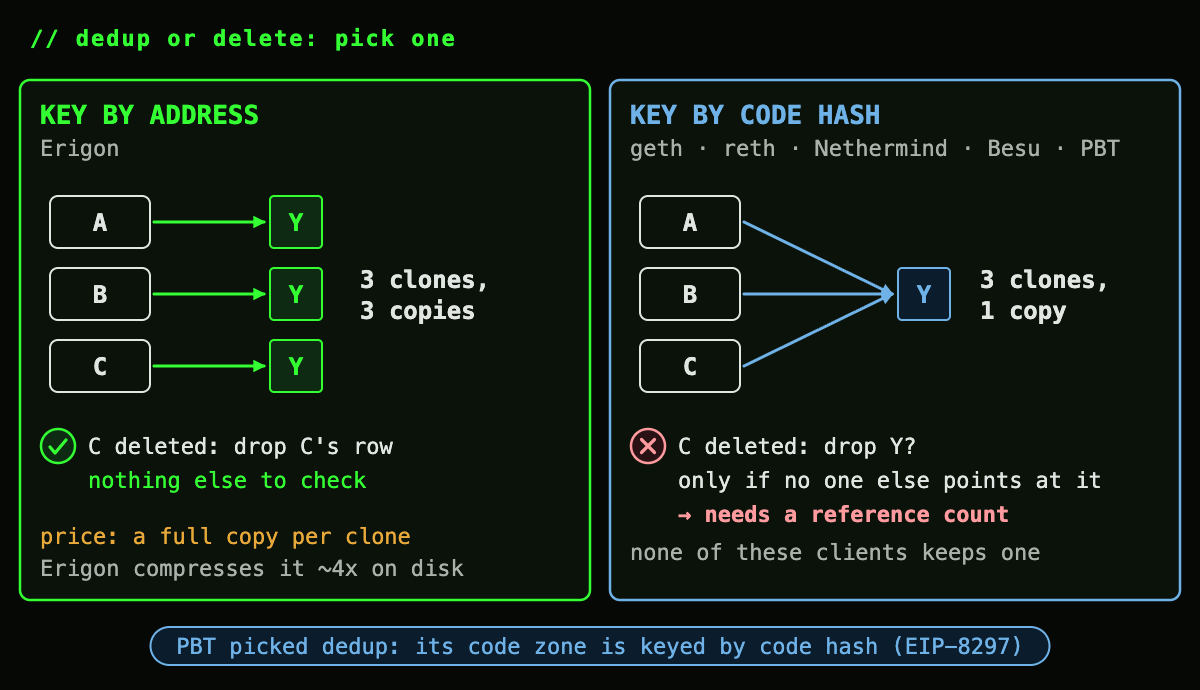
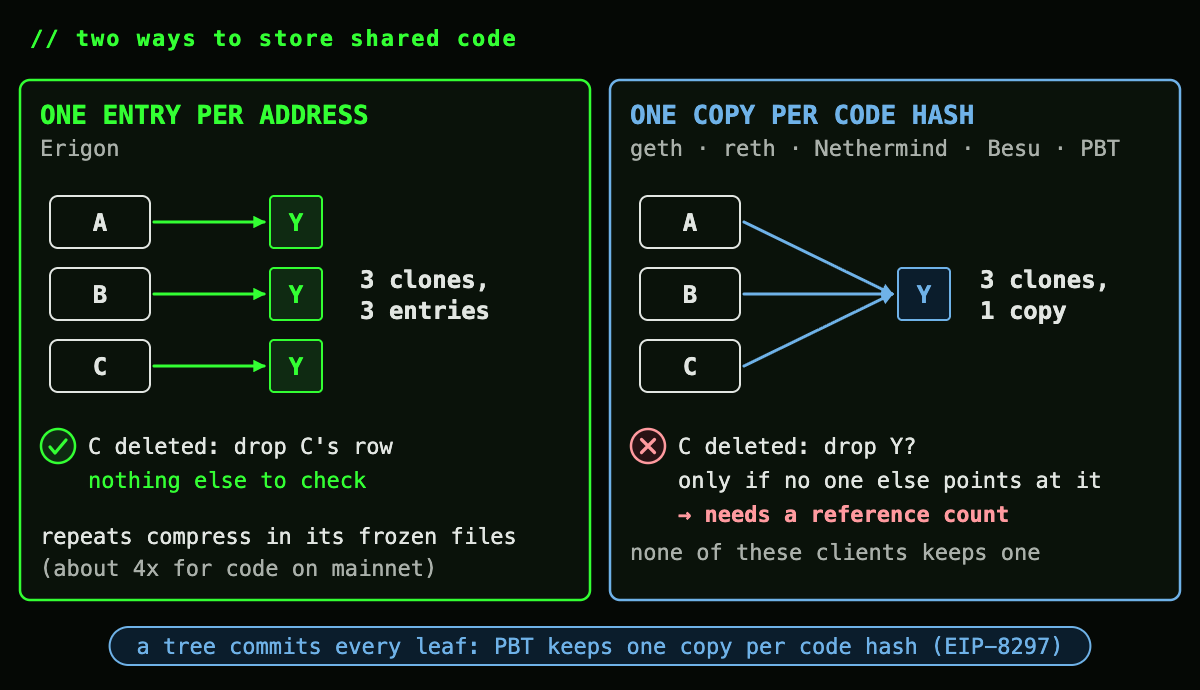
setcodefrom-dangling-code: Erigon compresses shared code; F4 reframed
Erigon keys code by address with no refcount, but its frozen files compress repeats against a shared dictionary (about 4x for code on mainnet). F4 and its section now show two ways to store shared code, and why a tree that commits every leaf keeps one copy per code hash.

diff --git a/setcodefrom-dangling-code/index.html b/setcodefrom-dangling-code/index.html
@@ -101,10 +101,10 @@
 <figure><img src="figures/f3-client-matrix.svg" alt="Figure 3: a grid of five clients against four events. geth, reth, Nethermind and Besu key code by hash and keep it after reorgs and pre-Cancun self-destructs, and Nethermind also keeps code from reverted frames and same-transaction self-destructs. Erigon keys code by address and never leaves any behind." loading="lazy"><figcaption><span class="fnum">Figure 3.</span> a grid of five clients against four events. geth, reth, Nethermind and Besu key code by hash and keep it after reorgs and pre-Cancun self-destructs, and Nethermind also keeps code from reverted frames and same-transaction self-destructs. Erigon keys code by address and never leaves any behind.</figcaption></figure>
 <p>Two things stand out. Reverts aren't the main source: only Nethermind persists code from a reverted frame, the others undo it before anything is written. And only one client doesn't have the problem at all.</p>
 <p>Since Cancun, only reorgs and Nethermind's handling of reverts still leave code behind. Fix those two and nothing would anymore, until SETCODEFROM.</p>
-<h2 id="dedup-or-delete-pick-one"><span class="hsig">&gt;</span> Dedup or delete: pick one</h2>
-<figure><img src="figures/f4-dedup-or-delete.svg" alt="Figure 4: keyed by address, three clones store three copies and deleting one is free. Keyed by code hash, three clones share one copy and deleting it needs to know nobody else points at it, which takes a reference count. PBT keys its code zone by code hash." loading="lazy"><figcaption><span class="fnum">Figure 4.</span> keyed by address, three clones store three copies and deleting one is free. Keyed by code hash, three clones share one copy and deleting it needs to know nobody else points at it, which takes a reference count. PBT keys its code zone by code hash.</figcaption></figure>
-<p>Erigon stores code per address. When the account goes, its code goes with it. The price is that a thousand clones are a thousand copies, though Erigon wins most of that back by compressing its snapshot files (its own config notes a 4x ratio for code on mainnet). geth, reth, Nethermind and Besu store code by hash: a thousand clones share one copy, and deleting it means knowing nobody else points at it. That's a reference count, and none of them keeps one. Besu has been on both sides: older Besu databases keyed code by account, new ones key it by hash.</p>
-<p>PBT picks dedup on purpose. Its code zone is content-addressed, keyed by code hash, so it inherits the same question.</p>
+<h2 id="two-ways-to-store-shared-code"><span class="hsig">&gt;</span> Two ways to store shared code</h2>
+<figure><img src="figures/f4-dedup-or-delete.svg" alt="Figure 4: keyed by address, three clones are three entries, deleting one is free, and Erigon compresses the repeats on disk. Keyed by code hash, three clones share one copy, and deleting it needs to know nobody else points at it, which takes a reference count. A tree commits every leaf, so PBT keeps one copy per code hash." loading="lazy"><figcaption><span class="fnum">Figure 4.</span> keyed by address, three clones are three entries, deleting one is free, and Erigon compresses the repeats on disk. Keyed by code hash, three clones share one copy, and deleting it needs to know nobody else points at it, which takes a reference count. A tree commits every leaf, so PBT keeps one copy per code hash.</figcaption></figure>
+<p>Erigon stores code per address, with no reference count. When the account goes, its code goes with it, and a thousand clones are a thousand entries. It doesn't pay for them in full, though: its frozen files compress every value against a shared dictionary, so repeated code shrinks to a fraction of a copy (its config notes a 4x ratio for code on mainnet). geth, reth, Nethermind and Besu store code by hash instead: a thousand clones share one copy, and deleting it means knowing nobody else points at it. That's a reference count, and none of them keeps one. Besu has been on both sides: older Besu databases keyed code by account, new ones key it by hash.</p>
+<p>Compression can't do that job inside a tree, where every copy would be another committed leaf. So PBT keeps one copy per code hash, and inherits the same question.</p>
 <h2 id="how-big-is-it-today-small"><span class="hsig">&gt;</span> How big is it today? Small</h2>
 <figure><img src="figures/f5-how-big-today.svg" alt="Figure 5: the 27,869 unreferenced codes are at most 0.68 GB, and 1.83 GB even at the new 64 KiB limit, against about 280 GB of state, and a snap-synced node never fetches them. What they already cost: no client can be asked for code by hash, so EIP-8058 and EIP-8298 both key on addresses instead." loading="lazy"><figcaption><span class="fnum">Figure 5.</span> the 27,869 unreferenced codes are at most 0.68 GB, and 1.83 GB even at the new 64 KiB limit, against about 280 GB of state, and a snap-synced node never fetches them. What they already cost: no client can be asked for code by hash, so EIP-8058 and EIP-8298 both key on addresses instead.</figcaption></figure>
 <p>Those 27,869 codes were deployed under the 24 KiB limit, so together they're 0.68 GB at most. Even at the new 64 KiB limit (<a href="https://eips.ethereum.org/EIPS/eip-7954" target="_blank" rel="noopener">EIP-7954</a>, scheduled for Glamsterdam), the same count would be 1.83 GB, under 0.7% of a full node's ~280 GB of state. A snap-synced node never even downloads it. Cleaning it up for the disk space alone isn't worth anyone's time.</p>

diff --git a/setcodefrom-dangling-code/make_figures.py b/setcodefrom-dangling-code/make_figures.py
@@ -251,30 +251,30 @@ def f3():
 
 
 # --------------------------------------------------------------------------- #
-# F4: dedup or delete, pick one
+# F4: two ways to store shared code
 # --------------------------------------------------------------------------- #
 def f4():
     W, H = 1200, 690
-    b = [head("// dedup or delete: pick one")]
+    b = [head("// two ways to store shared code")]
     ys = [196, 268, 340]
-    for x0, title, sub, tc in ((20, "KEY BY ADDRESS", "Erigon", GREEN),
-                               (610, "KEY BY CODE HASH", "geth · reth · Nethermind · Besu · PBT", BLUE)):
+    for x0, title, sub, tc in ((20, "ONE ENTRY PER ADDRESS", "Erigon", GREEN),
+                               (610, "ONE COPY PER CODE HASH", "geth · reth · Nethermind · Besu · PBT", BLUE)):
         b.append(rect(x0, 80, 570, 520, stroke=tc, sw=2.5))
         b.append(text(x0 + 20, 124, title, 26, tc, bold=True, room=530))
         b.append(text(x0 + 20, 156, sub, 22, MUTED, room=530))
         for y, a in zip(ys, "ABC"):
             b.append(rect(x0 + 30, y, 100, 52, stroke=TEXT, rx=8))
             b.append(text(x0 + 80, y + 35, a, 24, TEXT, "middle", bold=True))
-    # left: one copy per account, deletion is local
+    # left: an entry per address, deletion is local, repeats are squeezed by file compression
     for y in ys:
         b.append(arrow(154, y + 26, 264, y + 26, GREEN, 3))
         b.append(code(270, y, 52, GREEN, "Y", 24))
-    b.append(text(360, 288, ["3 clones,", "3 copies"], 24, TEXT, bold=True, room=210))
+    b.append(text(360, 288, ["3 clones,", "3 entries"], 24, TEXT, bold=True, room=210))
     b.append(mark(58, 446, True))
     b.append(text(88, 454, "C deleted: drop C's row", 22, TEXT, room=480))
     b.append(text(88, 488, "nothing else to check", 22, GREEN, room=480))
-    b.append(text(40, 544, "price: a full copy per clone", 22, KEY, room=530))
-    b.append(text(40, 576, "Erigon compresses it ~4x on disk", 22, MUTED, room=530))
+    b.append(text(40, 544, "repeats compress in its frozen files", 22, TEXT, room=530))
+    b.append(text(40, 576, "(about 4x for code on mainnet)", 22, MUTED, room=530))
     # right: one shared copy, deletion needs to know nobody else points at it
     for y in ys:
         b.append(path(f"M{744},{y + 26} L{892},{294}", BLUE, 3))
@@ -285,9 +285,9 @@ def f4():
     b.append(text(678, 488, "only if no one else points at it", 22, TEXT, room=480))
     b.append(text(678, 522, "→ needs a reference count", 22, RED, bold=True, room=480))
     b.append(text(630, 560, "none of these clients keeps one", 22, MUTED, room=530))
-    b.append(chip(600, 646, "PBT picked dedup: its code zone is keyed by code hash (EIP-8297)", BLUE,
+    b.append(chip(600, 646, "a tree commits every leaf: PBT keeps one copy per code hash (EIP-8297)", BLUE,
                   anchor="middle"))
-    svg("f4-dedup-or-delete.svg", W, H, "Keying code by address makes deletion free; keying by hash makes it shared", b)
+    svg("f4-dedup-or-delete.svg", W, H, "Two ways to store shared code: an entry per address, or one copy per code hash", b)
 
 
 # --------------------------------------------------------------------------- #

diff --git a/setcodefrom-dangling-code/setcodefrom-dangling-code.ethresearch.md b/setcodefrom-dangling-code/setcodefrom-dangling-code.ethresearch.md
@@ -38,15 +38,15 @@ Two things stand out. Reverts aren't the main source: only Nethermind persists c
 
 Since Cancun, only reorgs and Nethermind's handling of reverts still leave code behind. Fix those two and nothing would anymore, until SETCODEFROM.
 
-## Dedup or delete: pick one
+## Two ways to store shared code
 
 ![Figure 4](https://cperezz.github.io/articles/setcodefrom-dangling-code/figures/f4-dedup-or-delete.png)
 
-*Figure 4: keyed by address, three clones store three copies and deleting one is free. Keyed by code hash, three clones share one copy and deleting it needs to know nobody else points at it, which takes a reference count. PBT keys its code zone by code hash.*
+*Figure 4: keyed by address, three clones are three entries, deleting one is free, and Erigon compresses the repeats on disk. Keyed by code hash, three clones share one copy, and deleting it needs to know nobody else points at it, which takes a reference count. A tree commits every leaf, so PBT keeps one copy per code hash.*
 
-Erigon stores code per address. When the account goes, its code goes with it. The price is that a thousand clones are a thousand copies, though Erigon wins most of that back by compressing its snapshot files (its own config notes a 4x ratio for code on mainnet). geth, reth, Nethermind and Besu store code by hash: a thousand clones share one copy, and deleting it means knowing nobody else points at it. That's a reference count, and none of them keeps one. Besu has been on both sides: older Besu databases keyed code by account, new ones key it by hash.
+Erigon stores code per address, with no reference count. When the account goes, its code goes with it, and a thousand clones are a thousand entries. It doesn't pay for them in full, though: its frozen files compress every value against a shared dictionary, so repeated code shrinks to a fraction of a copy (its config notes a 4x ratio for code on mainnet). geth, reth, Nethermind and Besu store code by hash instead: a thousand clones share one copy, and deleting it means knowing nobody else points at it. That's a reference count, and none of them keeps one. Besu has been on both sides: older Besu databases keyed code by account, new ones key it by hash.
 
-PBT picks dedup on purpose. Its code zone is content-addressed, keyed by code hash, so it inherits the same question.
+Compression can't do that job inside a tree, where every copy would be another committed leaf. So PBT keeps one copy per code hash, and inherits the same question.
 
 ## How big is it today? Small
 

diff --git a/setcodefrom-dangling-code/setcodefrom-dangling-code.md b/setcodefrom-dangling-code/setcodefrom-dangling-code.md
@@ -32,13 +32,13 @@ Two things stand out. Reverts aren't the main source: only Nethermind persists c
 
 Since Cancun, only reorgs and Nethermind's handling of reverts still leave code behind. Fix those two and nothing would anymore, until SETCODEFROM.
 
-## Dedup or delete: pick one
+## Two ways to store shared code
 
-![Figure 4: keyed by address, three clones store three copies and deleting one is free. Keyed by code hash, three clones share one copy and deleting it needs to know nobody else points at it, which takes a reference count. PBT keys its code zone by code hash.](figures/f4-dedup-or-delete.svg)
+![Figure 4: keyed by address, three clones are three entries, deleting one is free, and Erigon compresses the repeats on disk. Keyed by code hash, three clones share one copy, and deleting it needs to know nobody else points at it, which takes a reference count. A tree commits every leaf, so PBT keeps one copy per code hash.](figures/f4-dedup-or-delete.svg)
 
-Erigon stores code per address. When the account goes, its code goes with it. The price is that a thousand clones are a thousand copies, though Erigon wins most of that back by compressing its snapshot files (its own config notes a 4x ratio for code on mainnet). geth, reth, Nethermind and Besu store code by hash: a thousand clones share one copy, and deleting it means knowing nobody else points at it. That's a reference count, and none of them keeps one. Besu has been on both sides: older Besu databases keyed code by account, new ones key it by hash.
+Erigon stores code per address, with no reference count. When the account goes, its code goes with it, and a thousand clones are a thousand entries. It doesn't pay for them in full, though: its frozen files compress every value against a shared dictionary, so repeated code shrinks to a fraction of a copy (its config notes a 4x ratio for code on mainnet). geth, reth, Nethermind and Besu store code by hash instead: a thousand clones share one copy, and deleting it means knowing nobody else points at it. That's a reference count, and none of them keeps one. Besu has been on both sides: older Besu databases keyed code by account, new ones key it by hash.
 
-PBT picks dedup on purpose. Its code zone is content-addressed, keyed by code hash, so it inherits the same question.
+Compression can't do that job inside a tree, where every copy would be another committed leaf. So PBT keeps one copy per code hash, and inherits the same question.
 
 ## How big is it today? Small
 
